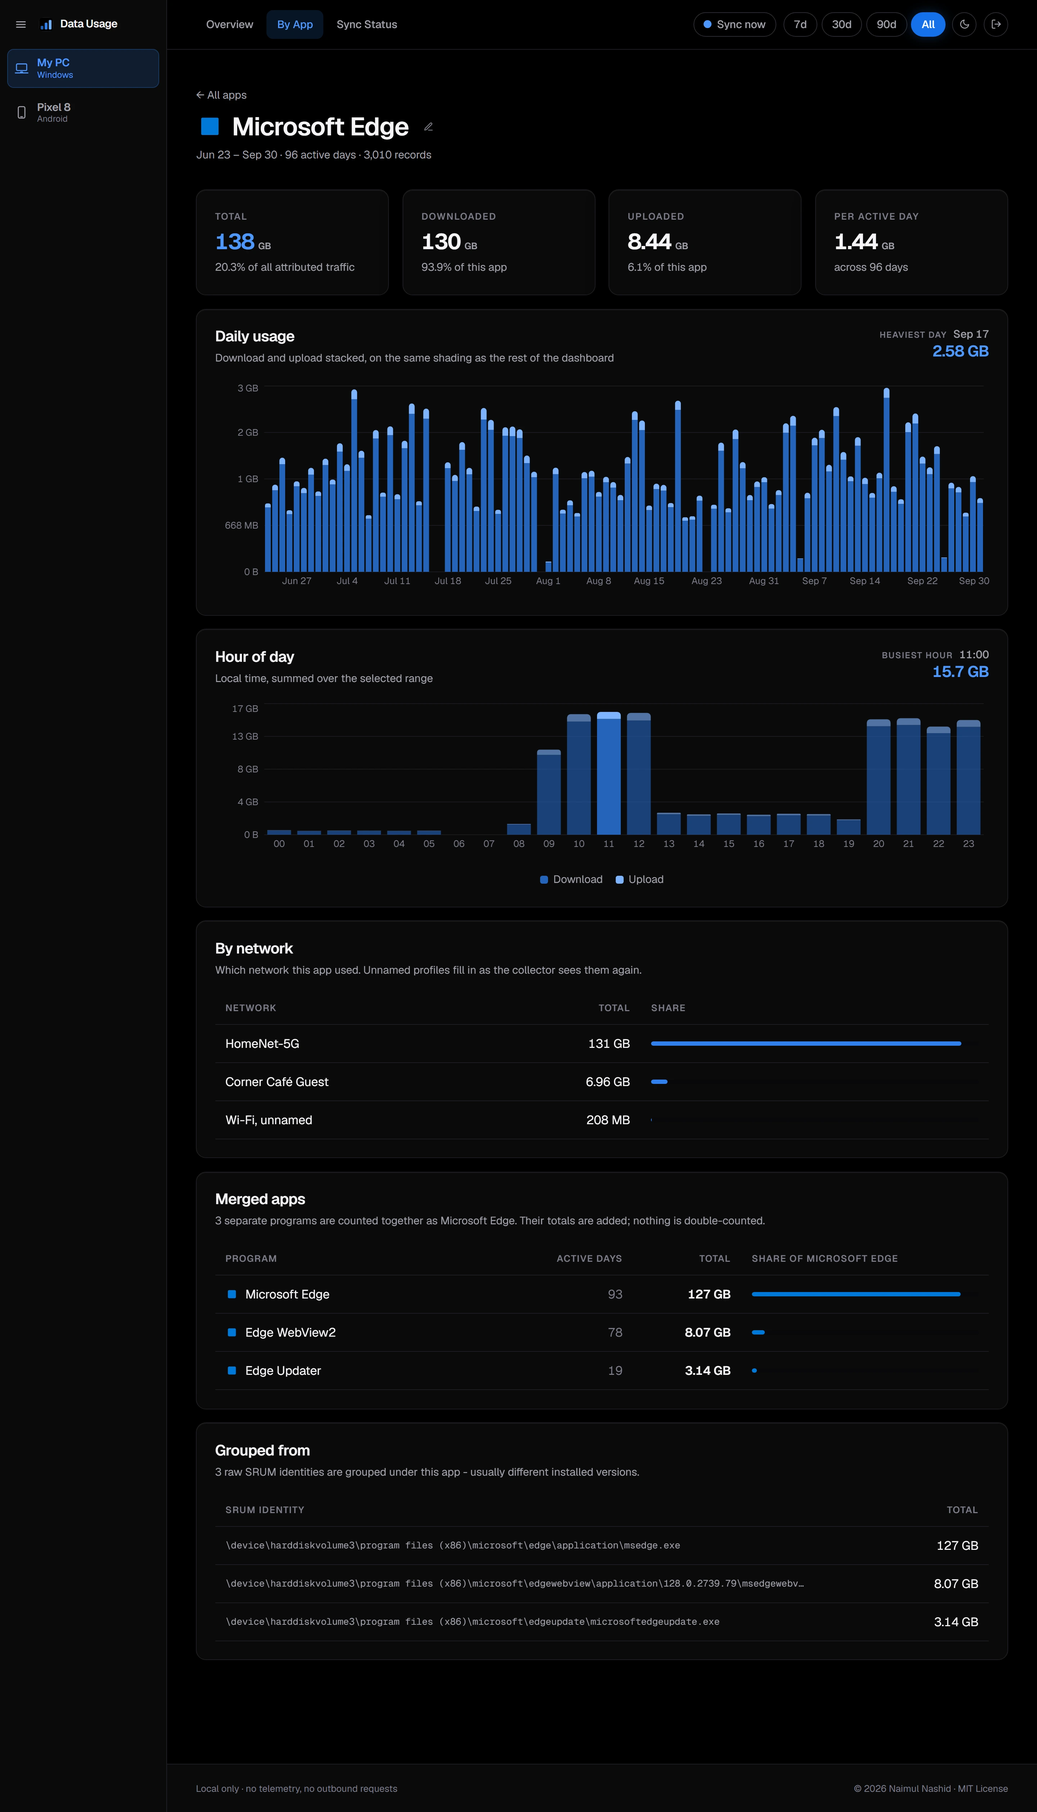
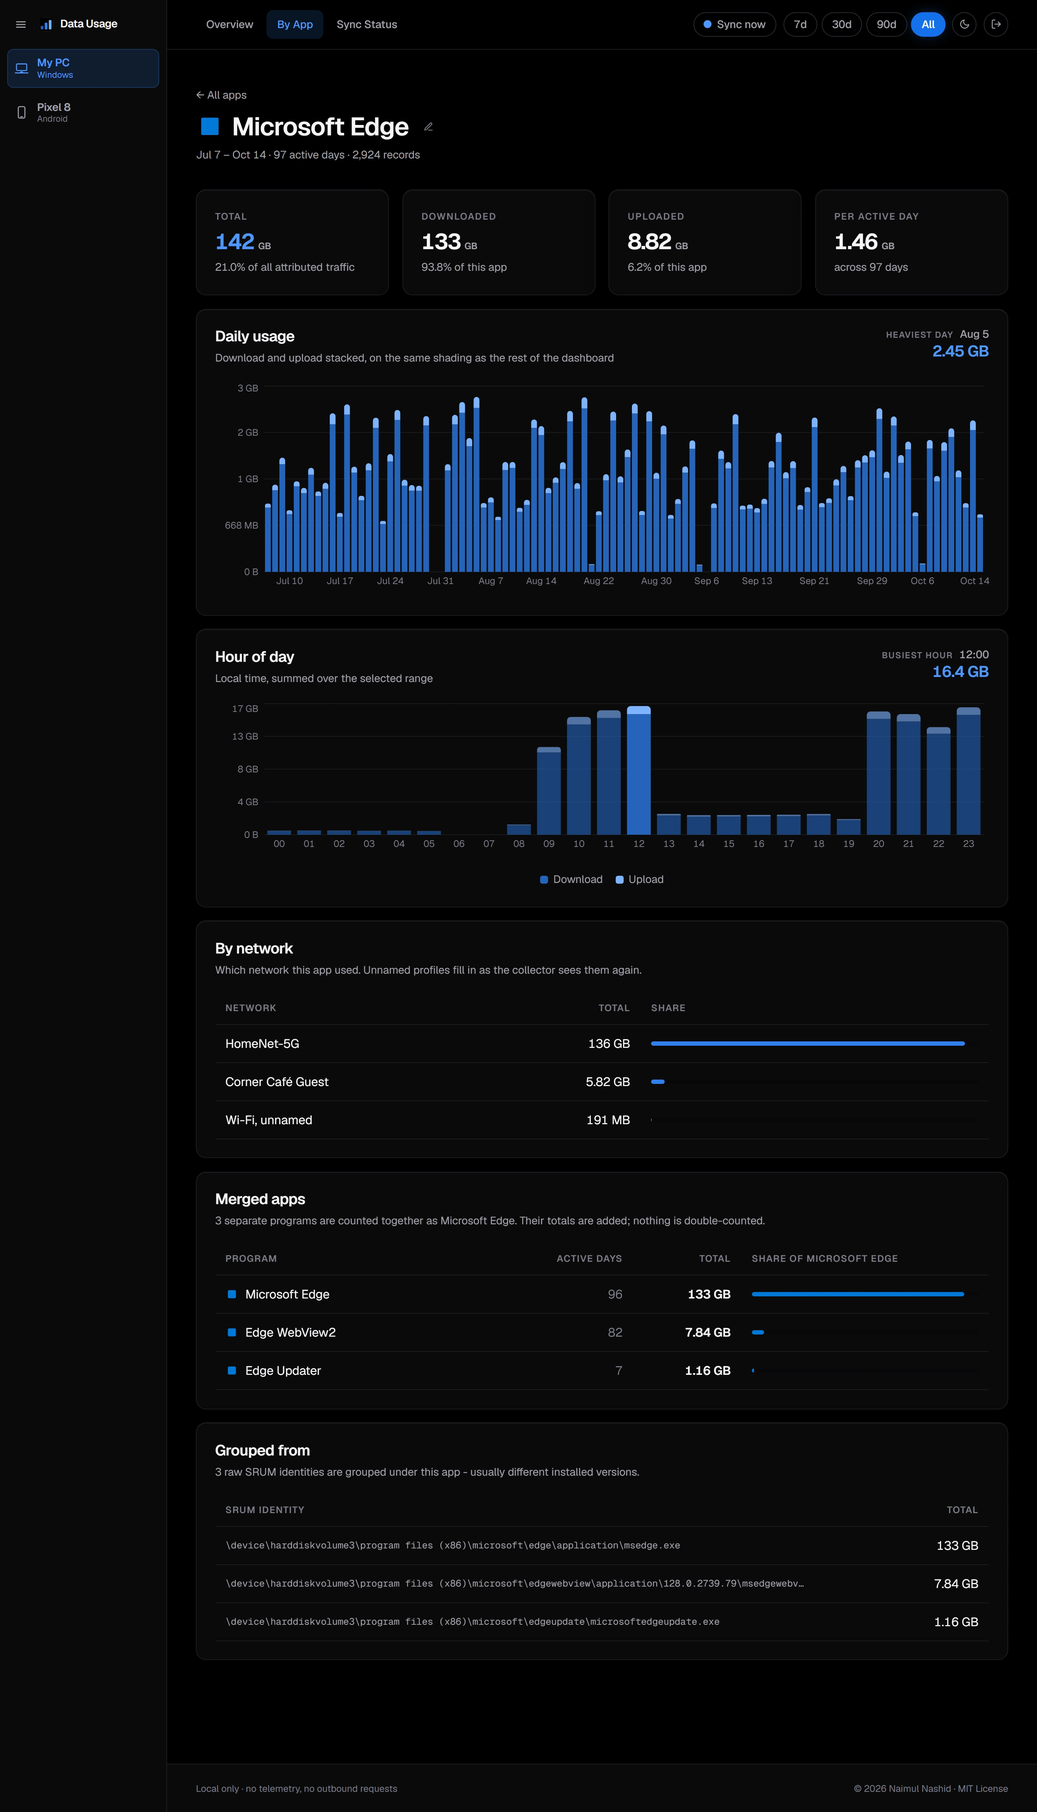
feat: light-theme screenshots from the same run, and a full-width site
demo:shots captures every page in both themes from one demo history, so a
pair always shows the same numbers; the site shows the set matching its
theme. The site's text uses the full column, each chart has its own row,
and the GitHub links are plain buttons under a heading.

diff --git a/scripts/make-screenshots.ts b/scripts/make-screenshots.ts
@@ -3,7 +3,7 @@
  *
  *   npm run demo:data                (writes ./demo-data)
  *   npm run build                    (the shots show the BUILT dashboard)
- *   npm run demo:shots               (writes docs/screenshots/*.webp)
+ *   npm run demo:shots               (writes docs/screenshots/*.webp, dark and light)
  *   npm run demo:shots -- <demo-dir> (when demo:data was given one)
  *
  * Paired with `make-demo-data.ts`, and only meaningful with it: a screenshot of
@@ -81,6 +81,17 @@ const DEMO_DEVICES = ['My PC', 'Pixel 8'];
  * second look at an overview scrolled to a lower card ("Activity", "Where it
  * went"); a full-page capture already contains those.
  */
+/**
+ * Every page in both themes, in ONE run against one demo history, so a dark
+ * image and its light twin always show the same numbers. The history is
+ * anchored to the day `demo:data` ran, so two separate runs would not match.
+ * Dark keeps the plain file name the README links; light adds `-light`.
+ */
+const THEMES = [
+  { theme: 'dark', suffix: '' },
+  { theme: 'light', suffix: '-light' },
+] as const;
+
 const SHOTS: Shot[] = [
   { name: 'windows-overview', path: '/windows/my-pc' },
   { name: 'windows-apps', path: '/windows/my-pc/apps' },
@@ -220,79 +231,89 @@ async function main(): Promise<void> {
       name: SESSION_COOKIE, value, domain: '127.0.0.1', path: '/', httpOnly: true,
     });
 
-    for (const shot of SHOTS) {
-      await cdp.send('Page.navigate', { url: `${BASE}${shot.path}` });
+    for (const { theme, suffix } of THEMES) {
+      // The dashboard keeps the theme in localStorage (THEME_KEY in
+      // lib/theme.ts) and applies it before first paint, so it is set on the
+      // origin before any page of this pass loads.
+      await cdp.send('Page.navigate', { url: `${BASE}/login` });
+      for (let i = 0; i < 40 && !(await cdp.evaluate<boolean>(`location.origin === ${JSON.stringify(BASE)}`)); i++) await sleep(150);
+      await cdp.evaluate(`localStorage.setItem('du-theme', ${JSON.stringify(theme)})`);
 
-      // Loaded means: the streamed page replaced its skeleton, the sidebar has
-      // read its collapsed state, and every chart has drawn its surface.
-      let loaded = false;
-      for (let i = 0; i < 160 && !loaded; i++) {
-        await sleep(250);
-        loaded = await cdp.evaluate<boolean>(`(() => {
-          if (location.pathname !== ${JSON.stringify(shot.path)}) return false;
-          if (!document.querySelector('main#content h1')) return false;
-          if (document.querySelector('.skeleton')) return false;
-          if (!document.querySelector('.sidebar[data-ready="true"]')) return false;
-          const figures = [...document.querySelectorAll('[role=figure]')];
-          return figures.every((f) => !f.querySelector('.recharts-responsive-container')
-            || f.querySelector('svg.recharts-surface'));
-        })()`);
-      }
-      if (!loaded) throw new Error(`${shot.path} never finished rendering (signed in? demo data present?)`);
+      for (const shot of SHOTS) {
+        await cdp.send('Page.navigate', { url: `${BASE}${shot.path}` });
 
-      const devices = await cdp.evaluate<string[]>(
-        `[...document.querySelectorAll('.side-device')].map((a) => (a.getAttribute('aria-label') || a.textContent || '').split(',')[0].trim())`,
-      );
-      const sameSet = devices.length === DEMO_DEVICES.length && DEMO_DEVICES.every((d) => devices.includes(d));
-      if (!sameSet) {
-        throw new Error(
-          `${shot.path} lists devices ${JSON.stringify(devices)}, not the demo's ${JSON.stringify(DEMO_DEVICES)}. ` +
-            'This is not the demo database -- is the build older than DATA_USAGE_CONFIG? Run `npm run build`. ' +
-            'Nothing was captured from this page.',
+        // Loaded means: the streamed page replaced its skeleton, the sidebar has
+        // read its collapsed state, and every chart has drawn its surface.
+        let loaded = false;
+        for (let i = 0; i < 160 && !loaded; i++) {
+          await sleep(250);
+          loaded = await cdp.evaluate<boolean>(`(() => {
+            if (location.pathname !== ${JSON.stringify(shot.path)}) return false;
+            if (document.documentElement.dataset.theme !== ${JSON.stringify(theme)}) return false;
+            if (!document.querySelector('main#content h1')) return false;
+            if (document.querySelector('.skeleton')) return false;
+            if (!document.querySelector('.sidebar[data-ready="true"]')) return false;
+            const figures = [...document.querySelectorAll('[role=figure]')];
+            return figures.every((f) => !f.querySelector('.recharts-responsive-container')
+              || f.querySelector('svg.recharts-surface'));
+          })()`);
+        }
+        if (!loaded) throw new Error(`${shot.path} never finished rendering (signed in? demo data present?)`);
+
+        const devices = await cdp.evaluate<string[]>(
+          `[...document.querySelectorAll('.side-device')].map((a) => (a.getAttribute('aria-label') || a.textContent || '').split(',')[0].trim())`,
         );
+        const sameSet = devices.length === DEMO_DEVICES.length && DEMO_DEVICES.every((d) => devices.includes(d));
+        if (!sameSet) {
+          throw new Error(
+            `${shot.path} lists devices ${JSON.stringify(devices)}, not the demo's ${JSON.stringify(DEMO_DEVICES)}. ` +
+              'This is not the demo database -- is the build older than DATA_USAGE_CONFIG? Run `npm run build`. ' +
+              'Nothing was captured from this page.',
+          );
+        }
+
+        // CSS entry animations first; then the JS ones document.getAnimations()
+        // cannot see -- the 900 ms count-ups and the chart draw-ins.
+        for (let i = 0; i < 20; i++) {
+          const settled = await cdp.evaluate<boolean>(
+            `document.getAnimations().every((a) => a.playState === 'finished')`,
+          );
+          if (settled) break;
+          await sleep(150);
+        }
+        await sleep(1200);
+
+        // The whole page: grow the window to the document's height and capture
+        // that. `captureBeyondViewport` is not used because it renders the
+        // overflow without re-laying out the page, and the sticky sidebar and
+        // top bar are pinned to the viewport -- they would stop at 900px and
+        // leave the rest of the image without them. A window as tall as the
+        // page has neither problem. The height is re-read until it holds,
+        // because growing the window can itself move it (anything sized in vh).
+        let height = 0;
+        for (let i = 0; i < 5; i++) {
+          const h = await cdp.evaluate<number>('Math.ceil(document.documentElement.scrollHeight)');
+          if (h === height) break;
+          height = h;
+          await cdp.send('Emulation.setDeviceMetricsOverride', {
+            width: VIEWPORT.width, height, deviceScaleFactor: SCALE, mobile: false,
+          });
+          await sleep(500);
+        }
+
+        // WebP: a 2x capture of a dark UI is several times smaller than PNG at
+        // no visible cost, and the browser encodes it, so what this writes is
+        // exactly what is committed.
+        const res = (await cdp.send('Page.captureScreenshot', {
+          format: 'webp', quality: 92, captureBeyondViewport: false,
+        })) as { data: string };
+
+        // Back to the loading window, so the next page lays out as a browser would.
+        await cdp.send('Emulation.setDeviceMetricsOverride', { ...VIEWPORT, deviceScaleFactor: SCALE, mobile: false });
+        const file = path.join(OUT_DIR, `${shot.name}${suffix}.webp`);
+        fs.writeFileSync(file, Buffer.from(res.data, 'base64'));
+        console.log(`  ${path.relative(ROOT, file)}  ${VIEWPORT.width}x${height}  ${(fs.statSync(file).size / 1024).toFixed(0)} KB`);
       }
-
-      // CSS entry animations first; then the JS ones document.getAnimations()
-      // cannot see -- the 900 ms count-ups and the chart draw-ins.
-      for (let i = 0; i < 20; i++) {
-        const settled = await cdp.evaluate<boolean>(
-          `document.getAnimations().every((a) => a.playState === 'finished')`,
-        );
-        if (settled) break;
-        await sleep(150);
-      }
-      await sleep(1200);
-
-      // The whole page: grow the window to the document's height and capture
-      // that. `captureBeyondViewport` is not used because it renders the
-      // overflow without re-laying out the page, and the sticky sidebar and
-      // top bar are pinned to the viewport -- they would stop at 900px and
-      // leave the rest of the image without them. A window as tall as the
-      // page has neither problem. The height is re-read until it holds,
-      // because growing the window can itself move it (anything sized in vh).
-      let height = 0;
-      for (let i = 0; i < 5; i++) {
-        const h = await cdp.evaluate<number>('Math.ceil(document.documentElement.scrollHeight)');
-        if (h === height) break;
-        height = h;
-        await cdp.send('Emulation.setDeviceMetricsOverride', {
-          width: VIEWPORT.width, height, deviceScaleFactor: SCALE, mobile: false,
-        });
-        await sleep(500);
-      }
-
-      // WebP: a 2x capture of a dark UI is several times smaller than PNG at
-      // no visible cost, and the browser encodes it, so what this writes is
-      // exactly what is committed.
-      const res = (await cdp.send('Page.captureScreenshot', {
-        format: 'webp', quality: 92, captureBeyondViewport: false,
-      })) as { data: string };
-
-      // Back to the loading window, so the next page lays out as a browser would.
-      await cdp.send('Emulation.setDeviceMetricsOverride', { ...VIEWPORT, deviceScaleFactor: SCALE, mobile: false });
-      const file = path.join(OUT_DIR, `${shot.name}.webp`);
-      fs.writeFileSync(file, Buffer.from(res.data, 'base64'));
-      console.log(`  ${path.relative(ROOT, file)}  ${VIEWPORT.width}x${height}  ${(fs.statSync(file).size / 1024).toFixed(0)} KB`);
     }
 
     cdp.close();

diff --git a/site/site.js b/site/site.js
@@ -397,7 +397,7 @@ function drawStack(d) {
 }
 
 function drawHour(d) {
-  const W = 520, H = 250, L = 50, R = 6, T = 8, B = 24;
+  const W = 1000, H = 270, L = 56, R = 6, T = 8, B = 24;
   const cfg = d.cfg;
   const n = cfg.hourShape.length;
   const total = d.days.reduce((s, x) => s + (x.total ?? 0), 0);
@@ -427,7 +427,7 @@ function drawHour(d) {
 }
 
 function drawTop(d) {
-  const W = 520, L = 130, R = 14, rowH = 30, T = 4;
+  const W = 1000, L = 180, R = 14, rowH = 32, T = 4;
   const apps = d.apps.slice(0, 10);
   const H = T + apps.length * rowH + 24;
   const max = niceMax(apps[0].total * 1.04);
@@ -441,7 +441,7 @@ function drawTop(d) {
   apps.forEach((a, i) => {
     const by = T + i * rowH + 5;
     const bh = rowH - 10;
-    const name = a.name.length > 18 ? a.name.slice(0, 17) + '…' : a.name;
+    const name = a.name.length > 28 ? a.name.slice(0, 27) + '…' : a.name;
     const tip = `<b>${esc(a.name)}</b>${tipRow(ink(a.color), 'Download', fmt(a.rx))}${tipRow(ink(uploadTint(a.color)), 'Upload', fmt(a.tx))}<div style="margin-top:4px;color:var(--text-faint)">Click to open its detail page</div>`;
     s += `<text x="${L - 8}" y="${by + bh / 2 + 4}" text-anchor="end">${esc(name)}</text>`;
     s += `<g class="draw-x" style="animation-delay:${i * 40}ms;cursor:pointer" data-tip="${esc(tip)}" data-open="detail">
@@ -452,7 +452,7 @@ function drawTop(d) {
 }
 
 function drawAppDay(d) {
-  const W = 520, H = 250, L = 50, R = 6, T = 8, B = 24;
+  const W = 1000, H = 270, L = 56, R = 6, T = 8, B = 24;
   const app = d.apps.find((a) => a.name === d.cfg.detailApp);
   const up = app.up ?? d.cfg.upShare;
   const vals = app.series.slice(-60);
@@ -475,7 +475,7 @@ function drawAppDay(d) {
   const peakI = vals.reduce((b, v, i) => ((v ?? 0) > (vals[b] ?? 0) ? i : b), 0);
   document.getElementById('v-appday').innerHTML =
     callout('Heaviest day', fmtDay(days[peakI].date), fmt(vals[peakI])) +
-    `<svg viewBox="0 0 ${W} ${H}" role="img" aria-label="${esc(app.name)}, daily usage over 60 days">${yAxis(max, L, W - R, T, H - B)}${bars}${xDates(days, xd, H - 6, 12)}</svg>
+    `<svg viewBox="0 0 ${W} ${H}" role="img" aria-label="${esc(app.name)}, daily usage over 60 days">${yAxis(max, L, W - R, T, H - B)}${bars}${xDates(days, xd, H - 6, 7)}</svg>
     <div class="legend"><span><i style="background:var(--down)"></i>Download</span><span><i style="background:var(--up)"></i>Upload</span></div>`;
 }
 
@@ -639,14 +639,26 @@ function wireTooltip() {
   document.addEventListener('scroll', hide, { passive: true });
 }
 
+/** `npm run demo:shots` writes each page twice, from one history: dark, and `-light`. */
+function shotSrc(name) {
+  return `screenshots/${name}${document.documentElement.dataset.theme === 'light' ? '-light' : ''}.webp`;
+}
+
 function selectShot(btn) {
   document.querySelectorAll('.tabs [role="tab"]').forEach((b) => b.setAttribute('aria-selected', String(b === btn)));
   const img = document.getElementById('shot-img');
-  img.src = `screenshots/${btn.dataset.shot}.webp`;
+  img.src = shotSrc(btn.dataset.shot);
   img.alt = btn.dataset.cap;
   document.querySelector('.shot-scroll').scrollTop = 0;
   // The phone capture is in the phone's accent; the tabs follow it.
   document.getElementById('tour').dataset.device = btn.dataset.shot.startsWith('android') ? 'android' : 'windows';
+}
+
+/** The heat-map ramp and the screenshots are per theme; nothing else needs redrawing. */
+function retheme() {
+  drawAll();
+  const tab = document.querySelector('.tabs [aria-selected="true"]');
+  if (tab) document.getElementById('shot-img').src = shotSrc(tab.dataset.shot);
 }
 
 document.addEventListener('DOMContentLoaded', () => {
@@ -654,10 +666,10 @@ document.addEventListener('DOMContentLoaded', () => {
     const next = document.documentElement.dataset.theme === 'light' ? 'dark' : 'light';
     applyTheme(next);
     try { localStorage.setItem(THEME_KEY, next); } catch { /* private window: still switches */ }
-    drawAll(); // the heat-map ramp is per theme
+    retheme();
   });
   window.matchMedia('(prefers-color-scheme: light)').addEventListener('change', () => {
-    if (!storedTheme()) { applyTheme(systemTheme()); drawAll(); }
+    if (!storedTheme()) { applyTheme(systemTheme()); retheme(); }
   });
 
   const tabs = document.querySelectorAll('.tabs [role="tab"]');

diff --git a/site/index.html b/site/index.html
@@ -155,24 +155,24 @@
 
   <div class="gallery" id="gallery" data-device="windows">
 
-    <article class="viz span-2">
+    <article class="viz">
       <header><h3>Headline totals</h3><span class="where">Overview · App detail</span></header>
       <div class="stats" id="v-stats"></div>
     </article>
 
-    <article class="viz span-2">
+    <article class="viz">
       <header><h3>Daily trend</h3><span class="where">Overview</span></header>
       <p>A day above 2.5 times the average turns <span class="red">red</span>, the only use of red outside a failed collector run. A day never collected is a <em>break</em> in the line, not a zero.</p>
       <div class="chart" id="v-trend"></div>
     </article>
 
-    <article class="viz span-2">
+    <article class="viz">
       <header><h3>Activity heat map</h3><span class="where">Overview · expanded Activity page</span></header>
       <p>Outlined cells were never collected, which is different from a quiet day. <b>Expand</b> opens every 26-week block since collection began, on one colour scale.</p>
       <div class="chart" id="v-heat"></div>
     </article>
 
-    <article class="viz span-2">
+    <article class="viz">
       <header><h3>Daily usage by app</h3><span class="where">Overview</span></header>
       <p>Apps keep their brand colour wherever they appear, held inside a lightness band so near-white brands stay visible in both themes.</p>
       <div class="chart" id="v-stack"></div>
@@ -198,17 +198,17 @@
 
     <article class="viz">
       <header><h3>One app against the rest</h3><span class="where">Laptop overview, optional</span></header>
-      <p>When one app dwarfs the others, naming it in config (<code>splitApp</code>) sets it apart, so everything else is readable at its own scale. A laptop setting, so it shows the laptop in either mode.</p>
+      <p>Naming one heavy app in config (<code>splitApp</code>) sets it apart, so everything else reads at its own scale. A laptop setting, so it shows in either mode.</p>
       <div id="v-split"></div>
     </article>
 
-    <article class="viz span-2">
+    <article class="viz">
       <header><h3>Where it went</h3><span class="where">Overview · App detail</span></header>
-      <p>Network names on the laptop are learned by watching which network it is on; on a phone they come from a USB capture, and traffic over a VPN is shown apart rather than guessed at.</p>
+      <p>The laptop learns network names by watching which one it is on; a phone's come from a USB capture, and VPN traffic is shown apart, not guessed at.</p>
       <div id="v-where"></div>
     </article>
 
-    <article class="viz span-2">
+    <article class="viz">
       <header><h3>The app table</h3><span class="where">By App</span></header>
       <p>Lists every app with enough activity for a detail page, expandable to every app ever seen. Click a header to sort, again to reverse.</p>
       <div id="v-table"></div>
@@ -346,8 +346,9 @@
     <div><b>Needs</b> Windows 10 or 11, Administrator rights once, Node.js 22.16+, SrumECmd with a .NET runtime, and a second drive or partition.</div>
     <div><b>For phones</b> Android 8.0+, and adb to install the app.</div>
   </div>
+  <h3 class="links-h">GitHub</h3>
   <div class="hero-cta">
-    <a class="btn btn-solid" href="https://github.com/naimulnashid/data-usage-tracker#setup">Setup guide</a>
+    <a class="btn" href="https://github.com/naimulnashid/data-usage-tracker#setup">Setup guide</a>
     <a class="btn" href="https://github.com/naimulnashid/data-usage-tracker/blob/main/docs/DESIGN.md">Design notes</a>
     <a class="btn" href="https://github.com/naimulnashid/data-usage-tracker/releases/latest">Latest release</a>
   </div>

diff --git a/site/styles.css b/site/styles.css
@@ -153,7 +153,7 @@ h1, h2, h3 { margin: 0; letter-spacing: -0.02em; }
   font: 13px 'Geist Mono', ui-monospace, monospace; color: var(--text-dim);
 }
 h1 { font-size: clamp(2.3rem, 6.4vw, 4.6rem); line-height: 1.02; font-weight: 700; letter-spacing: -0.045em; }
-.lede { max-width: 760px; font-size: clamp(1.05rem, 2vw, 1.25rem); color: var(--text-dim); margin: 24px 0 0; }
+.lede { font-size: clamp(1.05rem, 2vw, 1.25rem); color: var(--text-dim); margin: 24px 0 0; }
 .lede strong { color: var(--text); font-weight: 600; }
 .hero-cta { display: flex; flex-wrap: wrap; gap: 10px; margin-top: 28px; }
 
@@ -182,7 +182,7 @@ h1 { font-size: clamp(2.3rem, 6.4vw, 4.6rem); line-height: 1.02; font-weight: 70
 /* ---------------------------------------------------------------- sections */
 .section { padding-top: 88px; }
 .section h2 { font-size: clamp(1.7rem, 3.6vw, 2.4rem); font-weight: 700; }
-.section-lede { color: var(--text-dim); max-width: 780px; margin: 10px 0 28px; }
+.section-lede { color: var(--text-dim); margin: 10px 0 28px; }
 .section > h2 + .flow { margin-top: 28px; }
 
 /* flow */
@@ -229,9 +229,9 @@ h1 { font-size: clamp(2.3rem, 6.4vw, 4.6rem); line-height: 1.02; font-weight: 70
 
 /* chart gallery */
 .charts-head { display: flex; flex-wrap: wrap; justify-content: space-between; align-items: flex-end; gap: 16px; margin-bottom: 28px; }
+.charts-head > div:first-child { flex: 1 1 520px; }
 .charts-head .section-lede { margin-bottom: 0; }
 .gallery { display: grid; gap: 16px; grid-template-columns: minmax(0, 1fr); }
-@media (min-width: 900px) { .gallery { grid-template-columns: repeat(2, minmax(0, 1fr)); } .span-2 { grid-column: 1 / -1; } }
 .viz { background: var(--bg-panel); border: 1px solid var(--border); border-radius: 16px; padding: 20px 22px; box-shadow: var(--shadow); min-width: 0; }
 .viz header { display: flex; flex-wrap: wrap; align-items: baseline; justify-content: space-between; gap: 4px 12px; }
 .viz h3 { font-size: 1.15rem; font-weight: 600; }
@@ -327,6 +327,8 @@ td.total { font-weight: 600; }
 .chip { font: 13px 'Geist Mono', monospace; color: var(--text-dim); padding: 6px 12px; border-radius: 8px; background: var(--bg-panel); border: 1px solid var(--border); }
 .req { margin-top: 20px; padding: 16px 20px; display: grid; gap: 6px; color: var(--text-dim); font-size: 15px; }
 .req b { color: var(--text); font-weight: 600; margin-right: 6px; }
+.links-h { margin-top: 36px; font-size: 1.15rem; font-weight: 600; }
+.links-h + .hero-cta { margin-top: 12px; }
 
 .foot { margin-top: 96px; border-top: 1px solid var(--border); }
 .foot-inner { display: flex; flex-wrap: wrap; justify-content: space-between; gap: 8px; padding-top: 22px; padding-bottom: 28px; font-size: 13px; color: var(--text-faint); }

diff --git a/site/README.md b/site/README.md
@@ -7,8 +7,9 @@ dashboard's pages, every chart it draws, and every feature.
 Plain HTML, CSS and one script, with no framework and no dependencies. The
 charts are drawn in the browser from a fixed random seed, so they are the
 same on every load and are nobody's usage. The dashboard screenshots come
-from `docs/screenshots/`, which `npm run demo:shots` regenerates; the build
-copies them in rather than keeping a second set here.
+from `docs/screenshots/`, which `npm run demo:shots` regenerates in both
+themes from one history; the page shows the set matching its own theme, and
+the build copies them in rather than keeping a second set here.
 
 ## Build and preview
 

diff --git a/README.md b/README.md
@@ -464,8 +464,9 @@ npm run demo:shots
 ```
 
 It starts its own dashboard on the demo data with a one-off password, captures
-four whole pages, top to bottom, in headless Chrome or Edge into
-`docs/screenshots/`, and stops it.
+four whole pages, top to bottom, in the dark theme and again in the light one
+(`*-light.webp`), in headless Chrome or Edge into `docs/screenshots/`, and
+stops it. Both sets come from one run, so they show the same numbers.
 It needs a current build, and it refuses to capture any page that lists a
 device other than the demo's two. That way a build that ignored
 `DATA_USAGE_CONFIG` cannot put your own data into an image.
